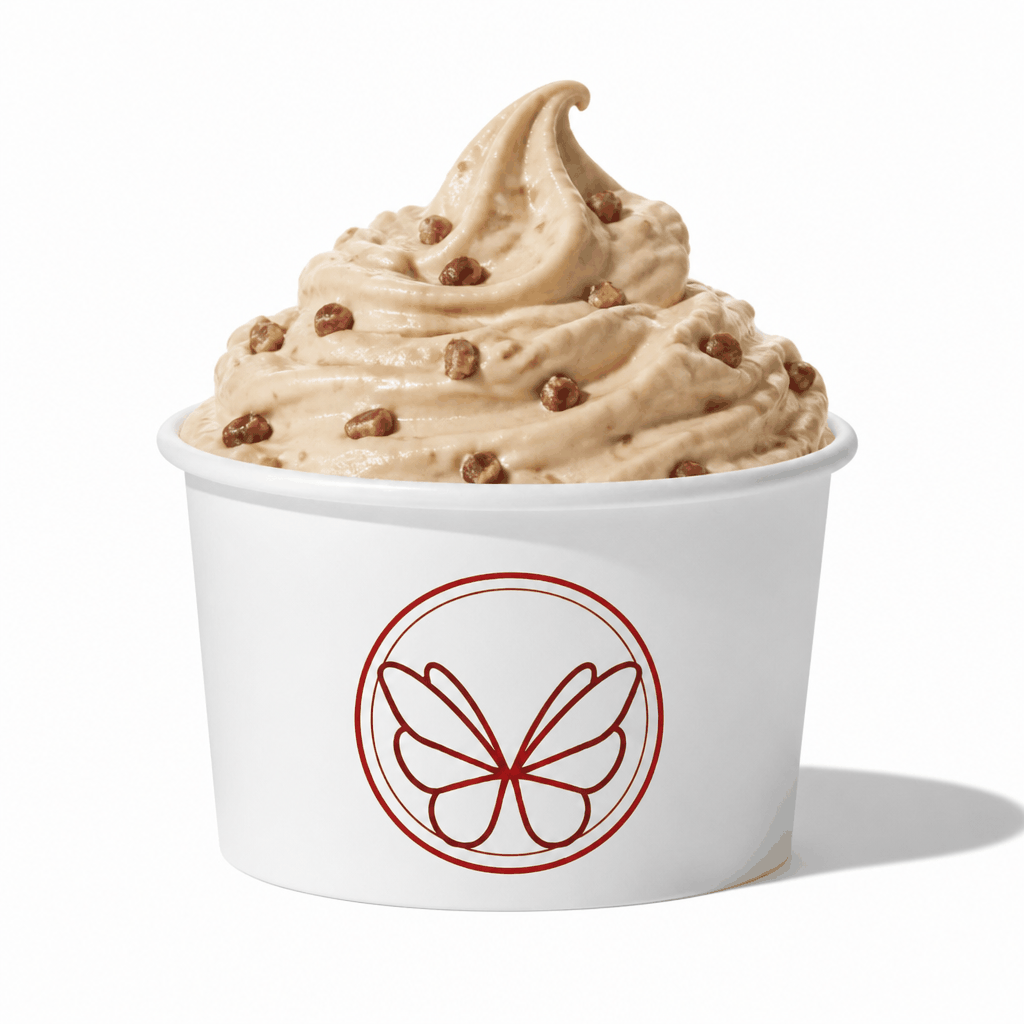
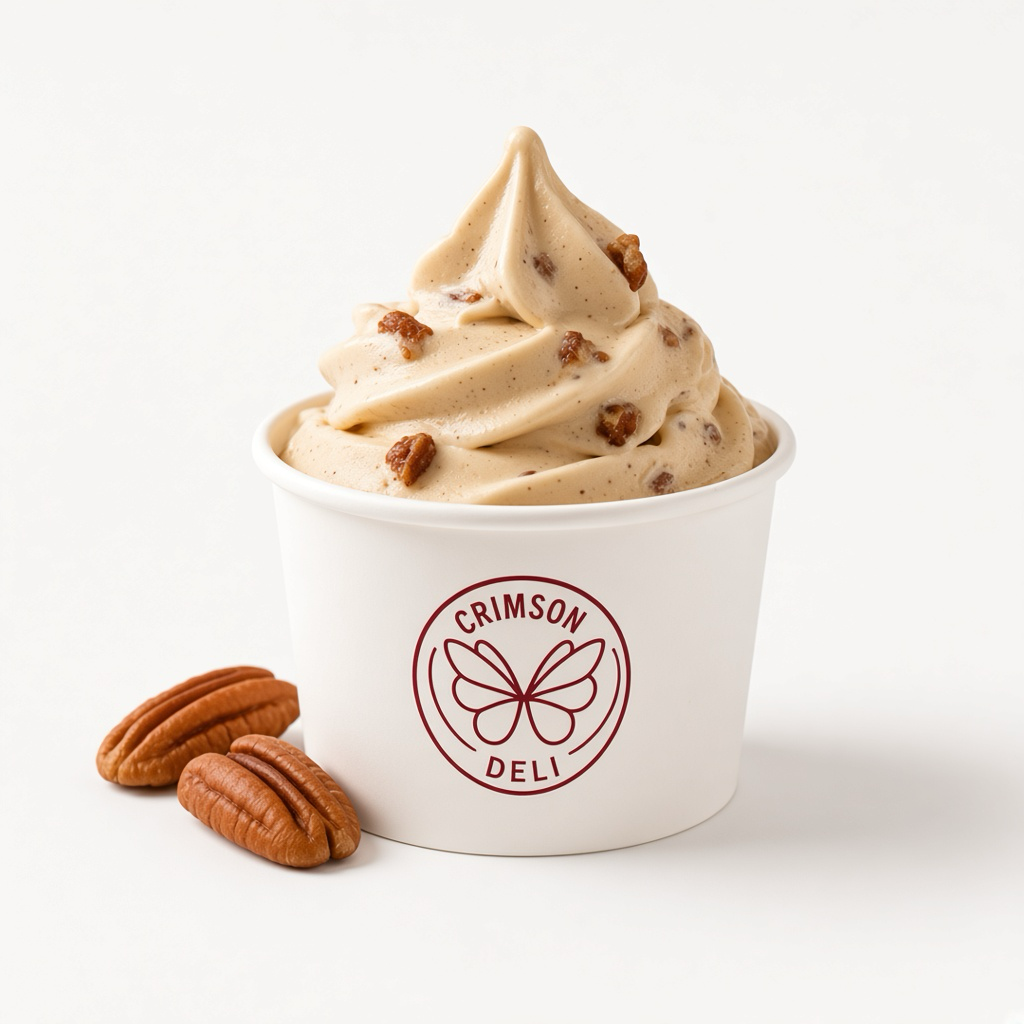
Show a photo per water ice flavor on the product page
Picking one flavor swaps the main photo to that flavor's cup; the
flavor thumbnails sit in one row (scrolling sideways on phones) and
arrows on the main photo step through the flavors. Also refreshes the
ice cream cup photos.

Changed region(s): [[0.0938, 0.0625, 1.0, 0.9062], [0.1875, 0.5625, 0.2188, 0.5938]]

diff --git a/components/site/IceCreamProductHero.tsx b/components/site/IceCreamProductHero.tsx
@@ -4,13 +4,17 @@ import { useState } from "react";
 import AddToCart from "@/components/site/AddToCart";
 import { Stars } from "@/components/site/StarRating";
 import {
+  WATER_ICE_FLAVORS,
   iceCreamCupImage,
+  waterIceFlavorImage,
+  waterIceImage,
+  type FlavorChoices,
   type IceCreamSize,
 } from "@/lib/data/food-menu";
 import type { FoodItem } from "@/lib/data/types";
 import type { ReviewSummary } from "@/lib/reviews/types";
 
-/** Ice cream detail: cup photo swaps when Small / Large is chosen. */
+/** Ice cream detail: cup photo swaps when Small / Large (or water ice flavor) is chosen. */
 export default function IceCreamProductHero({
   item,
   categoryName,
@@ -21,12 +25,96 @@ export default function IceCreamProductHero({
   reviewSummary: ReviewSummary;
 }) {
   const [size, setSize] = useState<IceCreamSize>("small");
-  const imageUrl = iceCreamCupImage(item.slug, size);
+  const [flavors, setFlavors] = useState<FlavorChoices>({});
+  const isWaterIce = item.slug === "water-ice";
+  const imageUrl = isWaterIce
+    ? waterIceImage(size, flavors.flavor)
+    : iceCreamCupImage(item.slug, size);
+
+  const selectedFlavor = (() => {
+    const picked = flavors.flavor;
+    if (Array.isArray(picked) && picked.length === 1) return picked[0];
+    if (typeof picked === "string" && picked) return picked;
+    return null;
+  })();
+
+  function pickFlavorThumb(flavor: string) {
+    setFlavors({ flavor: [flavor] });
+  }
+
+  // The arrows step through the flavors that have a photo, wrapping at the ends.
+  const photoFlavors: string[] = WATER_ICE_FLAVORS.filter((f) => waterIceFlavorImage(f));
+  function stepFlavor(dir: 1 | -1) {
+    const at = selectedFlavor ? photoFlavors.indexOf(selectedFlavor) : -1;
+    const next =
+      at === -1
+        ? dir === 1 ? 0 : photoFlavors.length - 1
+        : (at + dir + photoFlavors.length) % photoFlavors.length;
+    pickFlavorThumb(photoFlavors[next]);
+  }
 
   return (
     <div className="cd-product__grid">
-      <div className="cd-product__media">
-        <img src={imageUrl} alt={`${item.name}, ${size} cup`} decoding="async" />
+      <div className="cd-product__media-wrap">
+        <div className="cd-product__media">
+          <img
+            src={imageUrl}
+            alt={
+              selectedFlavor
+                ? `${item.name}, ${selectedFlavor}, ${size} cup`
+                : `${item.name}, ${size} cup`
+            }
+            decoding="async"
+          />
+          {isWaterIce && photoFlavors.length > 1 && (
+            <>
+              <button
+                type="button"
+                className="cd-product__arrow cd-product__arrow--prev"
+                aria-label="Previous flavor"
+                onClick={() => stepFlavor(-1)}
+              >
+                <svg width="20" height="20" viewBox="0 0 24 24" fill="none" stroke="currentColor" strokeWidth="2.2" strokeLinecap="round" strokeLinejoin="round" aria-hidden="true">
+                  <path d="M15 18l-6-6 6-6" />
+                </svg>
+              </button>
+              <button
+                type="button"
+                className="cd-product__arrow cd-product__arrow--next"
+                aria-label="Next flavor"
+                onClick={() => stepFlavor(1)}
+              >
+                <svg width="20" height="20" viewBox="0 0 24 24" fill="none" stroke="currentColor" strokeWidth="2.2" strokeLinecap="round" strokeLinejoin="round" aria-hidden="true">
+                  <path d="M9 18l6-6-6-6" />
+                </svg>
+              </button>
+            </>
+          )}
+        </div>
+
+        {isWaterIce && (
+          <div className="cd-flavor-thumbs" role="list" aria-label="Water ice flavors">
+            {WATER_ICE_FLAVORS.map((flavor) => {
+              const src = waterIceFlavorImage(flavor);
+              if (!src) return null;
+              const active = selectedFlavor === flavor;
+              return (
+                <button
+                  key={flavor}
+                  type="button"
+                  role="listitem"
+                  className={`cd-flavor-thumb${active ? " is-active" : ""}`}
+                  aria-pressed={active}
+                  aria-label={flavor}
+                  onClick={() => pickFlavorThumb(flavor)}
+                >
+                  <img src={src} alt="" loading="lazy" decoding="async" />
+                  <span>{flavor}</span>
+                </button>
+              );
+            })}
+          </div>
+        )}
       </div>
 
       <div>
@@ -51,7 +139,13 @@ export default function IceCreamProductHero({
 
         <p className="cd-product__desc">{item.description}</p>
 
-        <AddToCart item={item} size={size} onSizeChange={setSize} />
+        <AddToCart
+          item={item}
+          size={size}
+          onSizeChange={setSize}
+          flavors={isWaterIce ? flavors : undefined}
+          onFlavorChange={isWaterIce ? setFlavors : undefined}
+        />
 
         <p className="cd-product__fine">
           Made fresh at the counter and collected in-store. We do not deliver fresh

diff --git a/components/site/AddToCart.tsx b/components/site/AddToCart.tsx
@@ -27,20 +27,26 @@ export default function AddToCart({
   item,
   size: controlledSize,
   onSizeChange,
+  flavors: controlledFlavors,
+  onFlavorChange,
 }: {
   item: FoodItem;
   size?: IceCreamSize;
   onSizeChange?: (size: IceCreamSize) => void;
+  /** When set with onFlavorChange, flavor picks are controlled by the parent (hero swap). */
+  flavors?: FlavorChoices;
+  onFlavorChange?: (flavors: FlavorChoices) => void;
 }) {
   const { add } = useCart();
   const [qty, setQty] = useState(1);
   const [added, setAdded] = useState(false);
   const [internalSize, setInternalSize] = useState<IceCreamSize>("small");
-  const [flavors, setFlavors] = useState<FlavorChoices>({});
+  const [internalFlavors, setInternalFlavors] = useState<FlavorChoices>({});
   const [flavorPrompt, setFlavorPrompt] = useState(false);
   const [mods, setMods] = useState<ItemMods>({ removed: [], added: [] });
   const sized = isIceCreamItem(item);
   const size = controlledSize ?? internalSize;
+  const flavors = controlledFlavors ?? internalFlavors;
 
   // Water ice and gelati are made to order, so nothing is pre-selected: an
   // unnoticed default would send the kitchen a flavor nobody asked for.
@@ -77,9 +83,10 @@ export default function AddToCart({
   }
 
   function chooseFlavor(groupKey: string, option: string, multi?: boolean) {
-    setFlavors((prev) => {
-      if (!multi) return { ...prev, [groupKey]: option };
-      const current = prev[groupKey];
+    let next: FlavorChoices;
+    if (!multi) next = { ...flavors, [groupKey]: option };
+    else {
+      const current = flavors[groupKey];
       const list = Array.isArray(current)
         ? [...current]
         : typeof current === "string" && current
@@ -88,8 +95,10 @@ export default function AddToCart({
       const i = list.indexOf(option);
       if (i >= 0) list.splice(i, 1);
       else list.push(option);
-      return { ...prev, [groupKey]: list };
-    });
+      next = { ...flavors, [groupKey]: list };
+    }
+    if (onFlavorChange) onFlavorChange(next);
+    else setInternalFlavors(next);
     setFlavorPrompt(false);
     setAdded(false);
   }

diff --git a/styles/crimson/site-pages.css b/styles/crimson/site-pages.css
@@ -986,7 +986,14 @@
   }
 }
 
+.cd-product__media-wrap {
+  display: flex;
+  flex-direction: column;
+  gap: 12px;
+}
+
 .cd-product__media {
+  position: relative;
   display: flex;
   align-items: center;
   justify-content: center;
@@ -1002,6 +1009,89 @@
   max-width: 100%;
   max-height: 520px;
   object-fit: contain;
+}
+
+.cd-product__arrow {
+  position: absolute;
+  top: 50%;
+  z-index: 1;
+  display: grid;
+  place-items: center;
+  width: 44px;
+  height: 44px;
+  border: 1px solid var(--cd-border);
+  border-radius: 50%;
+  background: #fff;
+  color: var(--cd-ink);
+  box-shadow: 0 4px 14px rgba(0, 0, 0, 0.08);
+  cursor: pointer;
+  transform: translateY(-50%);
+  transition: border-color 0.15s ease, color 0.15s ease;
+}
+
+.cd-product__arrow:hover,
+.cd-product__arrow:focus-visible {
+  border-color: var(--cd-crimson);
+  color: var(--cd-crimson);
+}
+
+.cd-product__arrow--prev {
+  left: 12px;
+}
+
+.cd-product__arrow--next {
+  right: 12px;
+}
+
+/* All flavors sit in one row; on phones the row scrolls sideways. */
+.cd-flavor-thumbs {
+  display: grid;
+  grid-auto-flow: column;
+  grid-auto-columns: minmax(0, 1fr);
+  gap: 8px;
+}
+
+@media (max-width: 575px) {
+  .cd-flavor-thumbs {
+    grid-auto-columns: 84px;
+    overflow-x: auto;
+    padding-bottom: 4px;
+    scrollbar-width: thin;
+  }
+}
+
+.cd-flavor-thumb {
+  display: flex;
+  flex-direction: column;
+  align-items: center;
+  gap: 4px;
+  padding: 6px;
+  border: 1px solid var(--cd-border);
+  border-radius: var(--cd-radius);
+  background: #fff;
+  cursor: pointer;
+  text-align: center;
+  transition: border-color 0.15s ease, box-shadow 0.15s ease;
+}
+
+.cd-flavor-thumb img {
+  width: 100%;
+  aspect-ratio: 1;
+  object-fit: contain;
+  border-radius: 4px;
+}
+
+.cd-flavor-thumb span {
+  font-size: 11px;
+  font-weight: 600;
+  line-height: 1.2;
+  color: var(--cd-ink);
+}
+
+.cd-flavor-thumb.is-active,
+.cd-flavor-thumb:hover {
+  border-color: var(--cd-crimson);
+  box-shadow: 0 0 0 1px var(--cd-crimson);
 }
 
 .cd-product__eyebrow {

diff --git a/lib/data/food-menu.ts b/lib/data/food-menu.ts
@@ -430,6 +430,44 @@ export function iceCreamCupImage(slug: string, size: IceCreamSize): string {
   return `/assets/img/crimson/products/${slug}-${size}.png`;
 }
 
+/** Per-flavor water ice cup photos (Crimson white cup). */
+const WATER_ICE_FLAVOR_SLUGS: Record<string, string> = {
+  Watermelon: "watermelon",
+  Mango: "mango",
+  Cherry: "cherry",
+  Pineapple: "pineapple",
+  "Island Breeze": "island-breeze",
+  "Blueberry Lemon": "blueberry-lemon",
+  "Sour Apple": "sour-apple",
+  "Strawberry Kiwi": "strawberry-kiwi",
+};
+
+/** Cup photo URL for one water ice flavor name, or null if we have no asset. */
+export function waterIceFlavorImage(flavor: string): string | null {
+  const file = WATER_ICE_FLAVOR_SLUGS[flavor];
+  return file ? `/assets/img/crimson/products/water-ice-${file}.png` : null;
+}
+
+/**
+ * Water ice hero photo: one flavor when a single flavor is chosen, otherwise
+ * the all-flavors cup group used for small/large.
+ */
+export function waterIceImage(
+  size: IceCreamSize,
+  flavors?: string | string[] | null,
+): string {
+  const picked = Array.isArray(flavors)
+    ? flavors
+    : flavors
+      ? [flavors]
+      : [];
+  if (picked.length === 1) {
+    const one = waterIceFlavorImage(picked[0]);
+    if (one) return one;
+  }
+  return iceCreamCupImage("water-ice", size);
+}
+
 export function iceCreamPriceCents(size: IceCreamSize): number {
   return ICE_CREAM_SIZES[size].priceCents;
 }
